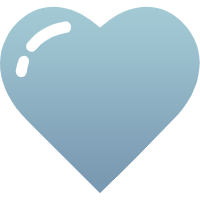
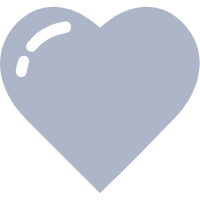
purple修改

diff --git a/public/mobile/purple/css/index.css b/public/mobile/purple/css/index.css
@@ -158,7 +158,6 @@ div.app-background[_ngcontent-way-c2] {
     height: 22px;
     background: url(https://baxigame1.s3.sa-east-1.amazonaws.com/bx_4/public/mobile/img/icon_logo01.png) no-repeat;
     background-size: 91px 22px;
-    margin-top: 6px;
 }
 
 .header-vertical-line[_ngcontent-way-c3] {
@@ -2455,6 +2454,8 @@ div.cs-dialog-title[_ngcontent-way-c7] {
     justify-content: flex-start;
     overflow-x: auto;
     background:rgba(0, 0, 0, .5);
+    border-radius:36px;
+    margin-right:10px;
 }
 
 .side-menu-item[_ngcontent-way-c8] {
@@ -2467,7 +2468,7 @@ div.cs-dialog-title[_ngcontent-way-c7] {
     margin: 0 0 5px;
     padding: 10px;
     font-size: 12px;
-    color: #7998b1;
+    color: #adb5c8;
     background-size: cover;
     background-repeat: no-repeat;
     background-position: center;
@@ -2479,9 +2480,9 @@ div.cs-dialog-title[_ngcontent-way-c7] {
 
 .active-side-menu[_ngcontent-way-c8] {
     color: #fff;
-    border:1px solid #ad3d40;
-    border-radius:10px;
-    background:rgba(255, 255, 255, .1);
+    background:#29184b;
+    border-radius:36px;
+    margin-top:5px;
 }
 
 .side-menu-item__icon[_ngcontent-way-c8] {
@@ -3301,13 +3302,13 @@ button.cancel-btn[_ngcontent-way-c22] {
    
 }
 .qb_ico{
-    background-image: url(https://baxigame1.s3.sa-east-1.amazonaws.com/bx_4/public/mobile/img/qb_yx.png)
+    background-image: url(/mobile/purple/images/yx_game1.png)
 }
 .active-side-menu .qb_ico{
-    background-image: url(https://baxigame1.s3.sa-east-1.amazonaws.com/bx_4/public/mobile/img/yx_on.png)
+    background-image: url(/mobile/purple/images/yx_game.png)
 }
 .xh_ico{
-    background-image: url(https://baxigame1.s3.sa-east-1.amazonaws.com/bx_4/public/mobile/img/xh_ico.png)
+    background-image: url(/mobile/purple/images/xh_ico.png)
 }
 .active-side-menu .xh_ico{
     background-image: url(https://baxigame1.s3.sa-east-1.amazonaws.com/bx_4/public/mobile/img/xh_on.png)
@@ -3372,7 +3373,35 @@ button.cancel-btn[_ngcontent-way-c22] {
     float:left;
     margin-right:10px;
 }
-
+.game_x{
+    width: 100%;
+    overflow-x: scroll;
+    overflow-y: hidden;
+    white-space: nowrap;
+    display: flex;
+}
+.game_xx{
+    width:30%;
+    margin-top: 15px;
+    object-fit: cover;
+    transition: 0.1s;
+    transform: scale(1);
+    flex-shrink:0;
+}
+.game_x::-webkit-scrollbar {
+    -webkit-box-shadow: inset 0 0 5px rgba(255,255,255,0.1);
+    border-radius: 0;
+    background: rgba(255,255,255,0.1);
+    height:0;
+}
+.game_x::-webkit-scrollbar-thumb{
+    border-radius: 5px;
+            -webkit-box-shadow: inset 0 0 5px rgba(255,255,255,0.1);
+            background: rgba(0,0,0,0.2);
+}
+.game_xx img{
+    border-radius:10px;
+}
 .game_list{
     width:95%;
     display: flex;
@@ -3442,7 +3471,7 @@ button.cancel-btn[_ngcontent-way-c22] {
 .gg_tc{
     width:94%;
     height:600px;
-    background:linear-gradient(to bottom, #014811, #127c50);
+    background:#14092b;
     position:absolute;
     left:50%;
     top:50%;
@@ -3512,8 +3541,10 @@ button.cancel-btn[_ngcontent-way-c22] {
     height:526px;
 }
 
-
 @media screen and (min-width: 1200px) {
+    .game_xx{
+        width:10%;
+    }
     .rm {
         display:flex;
         justify-content: left;

diff --git a/public/mobile/purple/css/share.css b/public/mobile/purple/css/share.css
@@ -1735,10 +1735,9 @@ button.cancel-btn[_ngcontent-way-c22] {
 
 
 .recharge_k_w{
-    width:160px;
+    width:110px;
     height:60px;
     background:url(../img/xz_ico.png) no-repeat;
-    background-repeat:160px 60px;
     position:absolute;
     top:0;
     left:0;
@@ -1759,7 +1758,6 @@ button.cancel-btn[_ngcontent-way-c22] {
 
 .recharge_kn{
     display:flex;
-    justify-content:space-between;
     flex-direction:row;
     flex-wrap: wrap;
     padding:0 10px;
@@ -1786,6 +1784,7 @@ button.cancel-btn[_ngcontent-way-c22] {
 }
 .recharge_on .recharge_k_w{
     background:url(/mobile/purple/images/xz_ico.png) no-repeat;
+    background-position:center right;
 }
 
 .recharge_input{
@@ -1857,14 +1856,14 @@ button.cancel-btn[_ngcontent-way-c22] {
     display: flex;
     flex-direction:column;
     flex-shrink:0;
-    width:160px;
+    width:110px;
     height:60px;
     border-radius:5px;
     overflow: hidden;
-    margin:10px 0px;
     text-align:center;
     line-height:60px;
     color:#000;
+    margin:10px 8px 0px 0;
 }
 .recharge_k1{
     display: flex;
